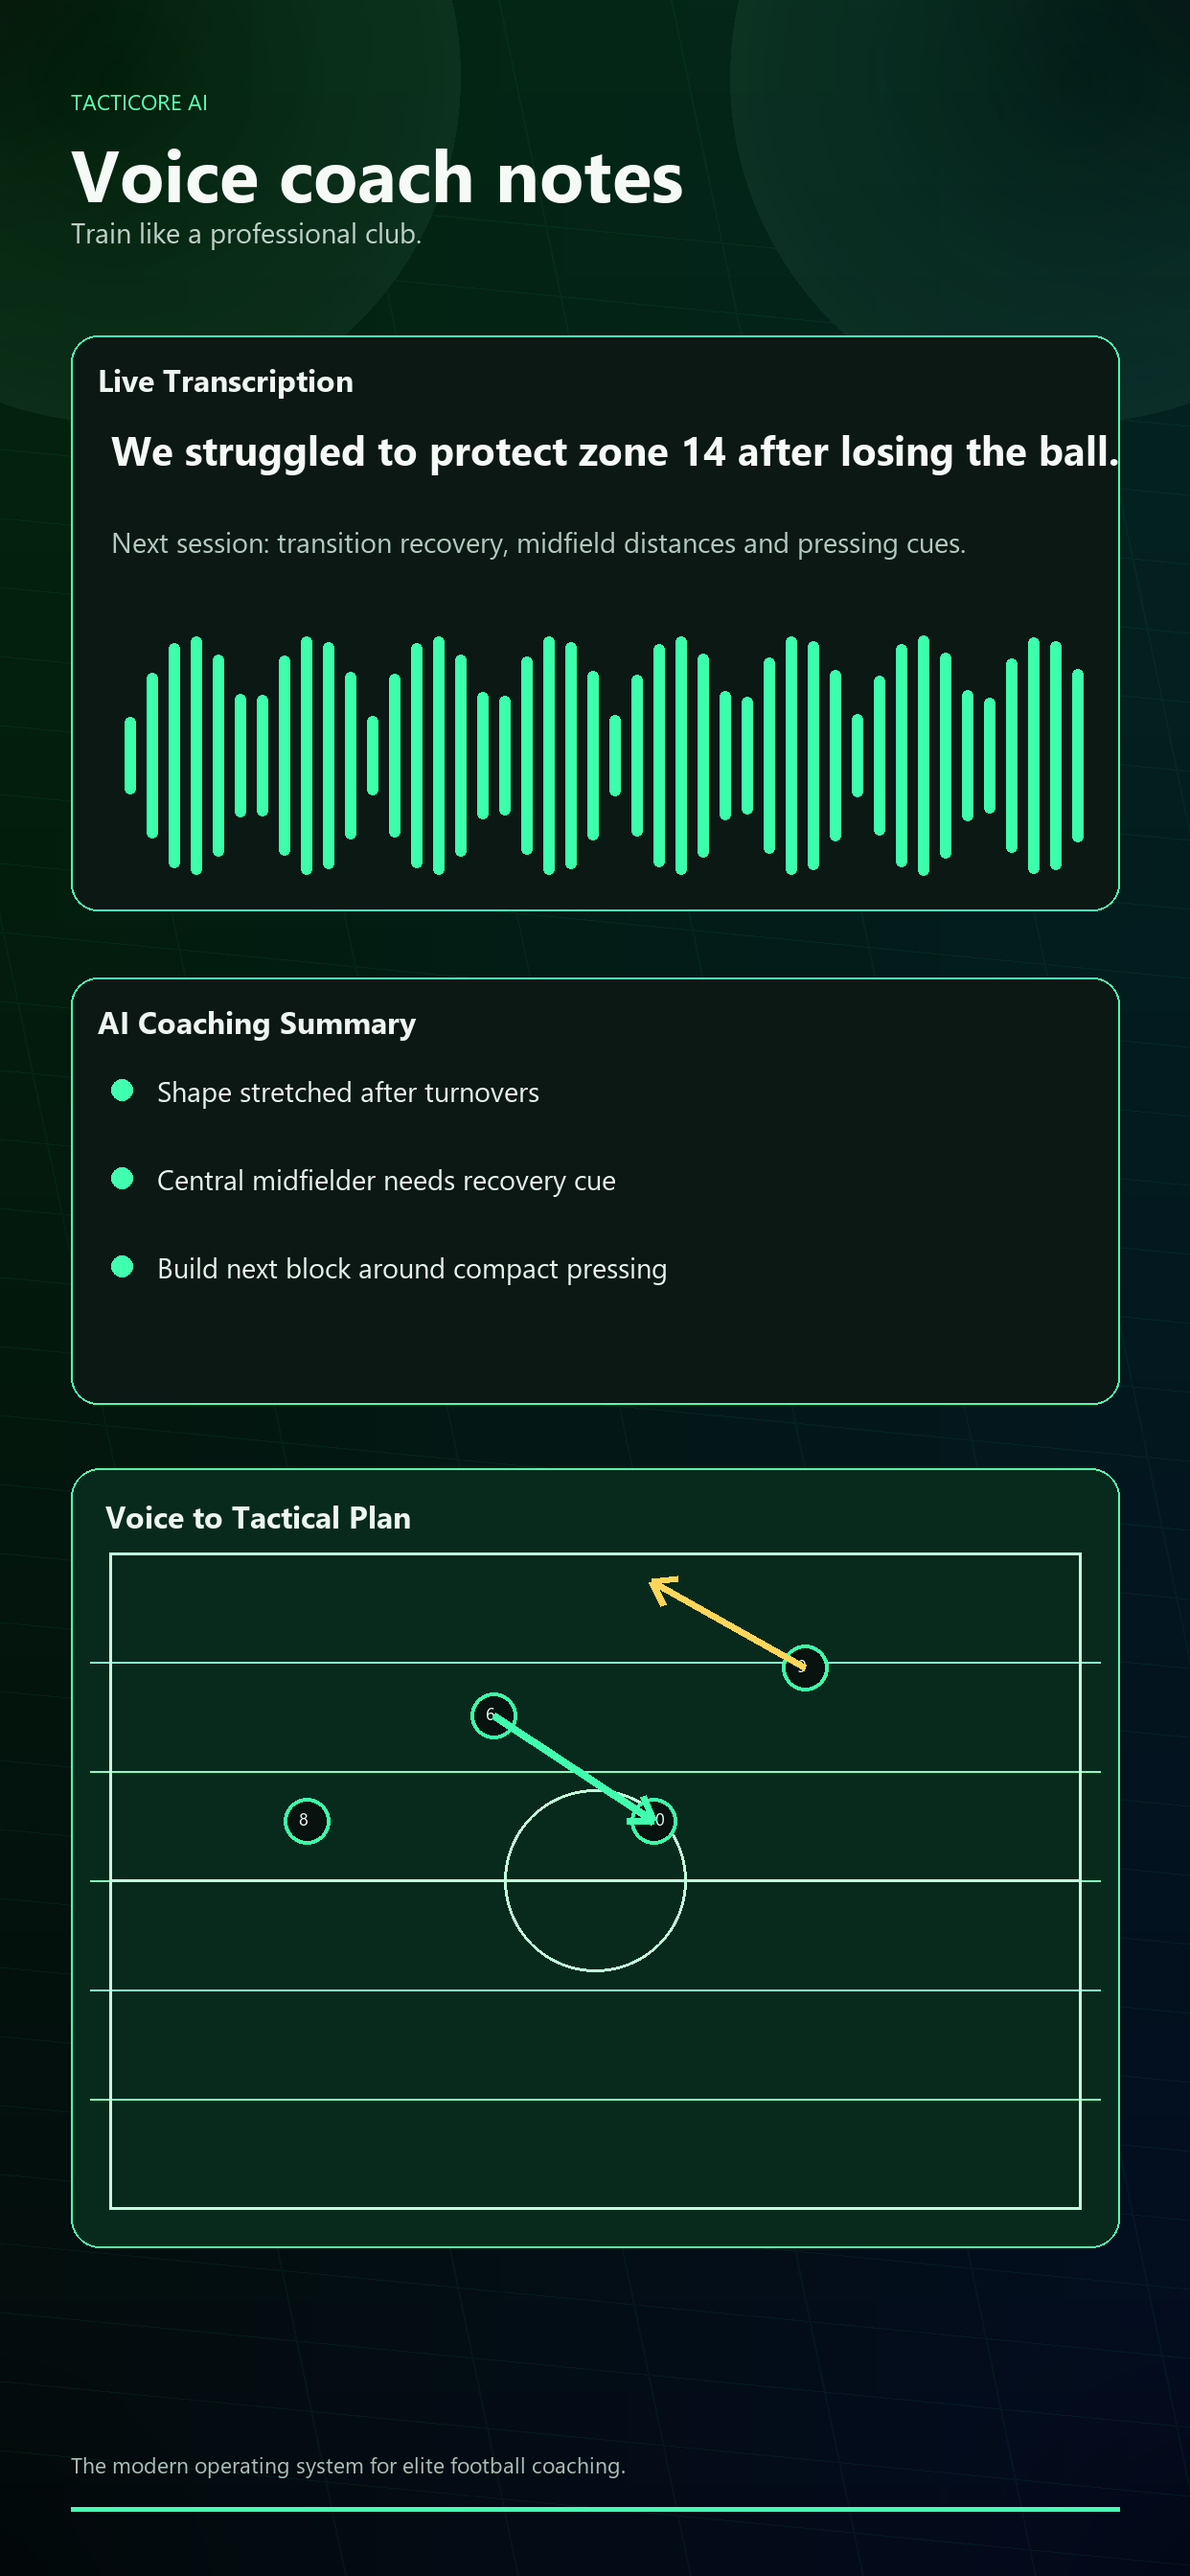
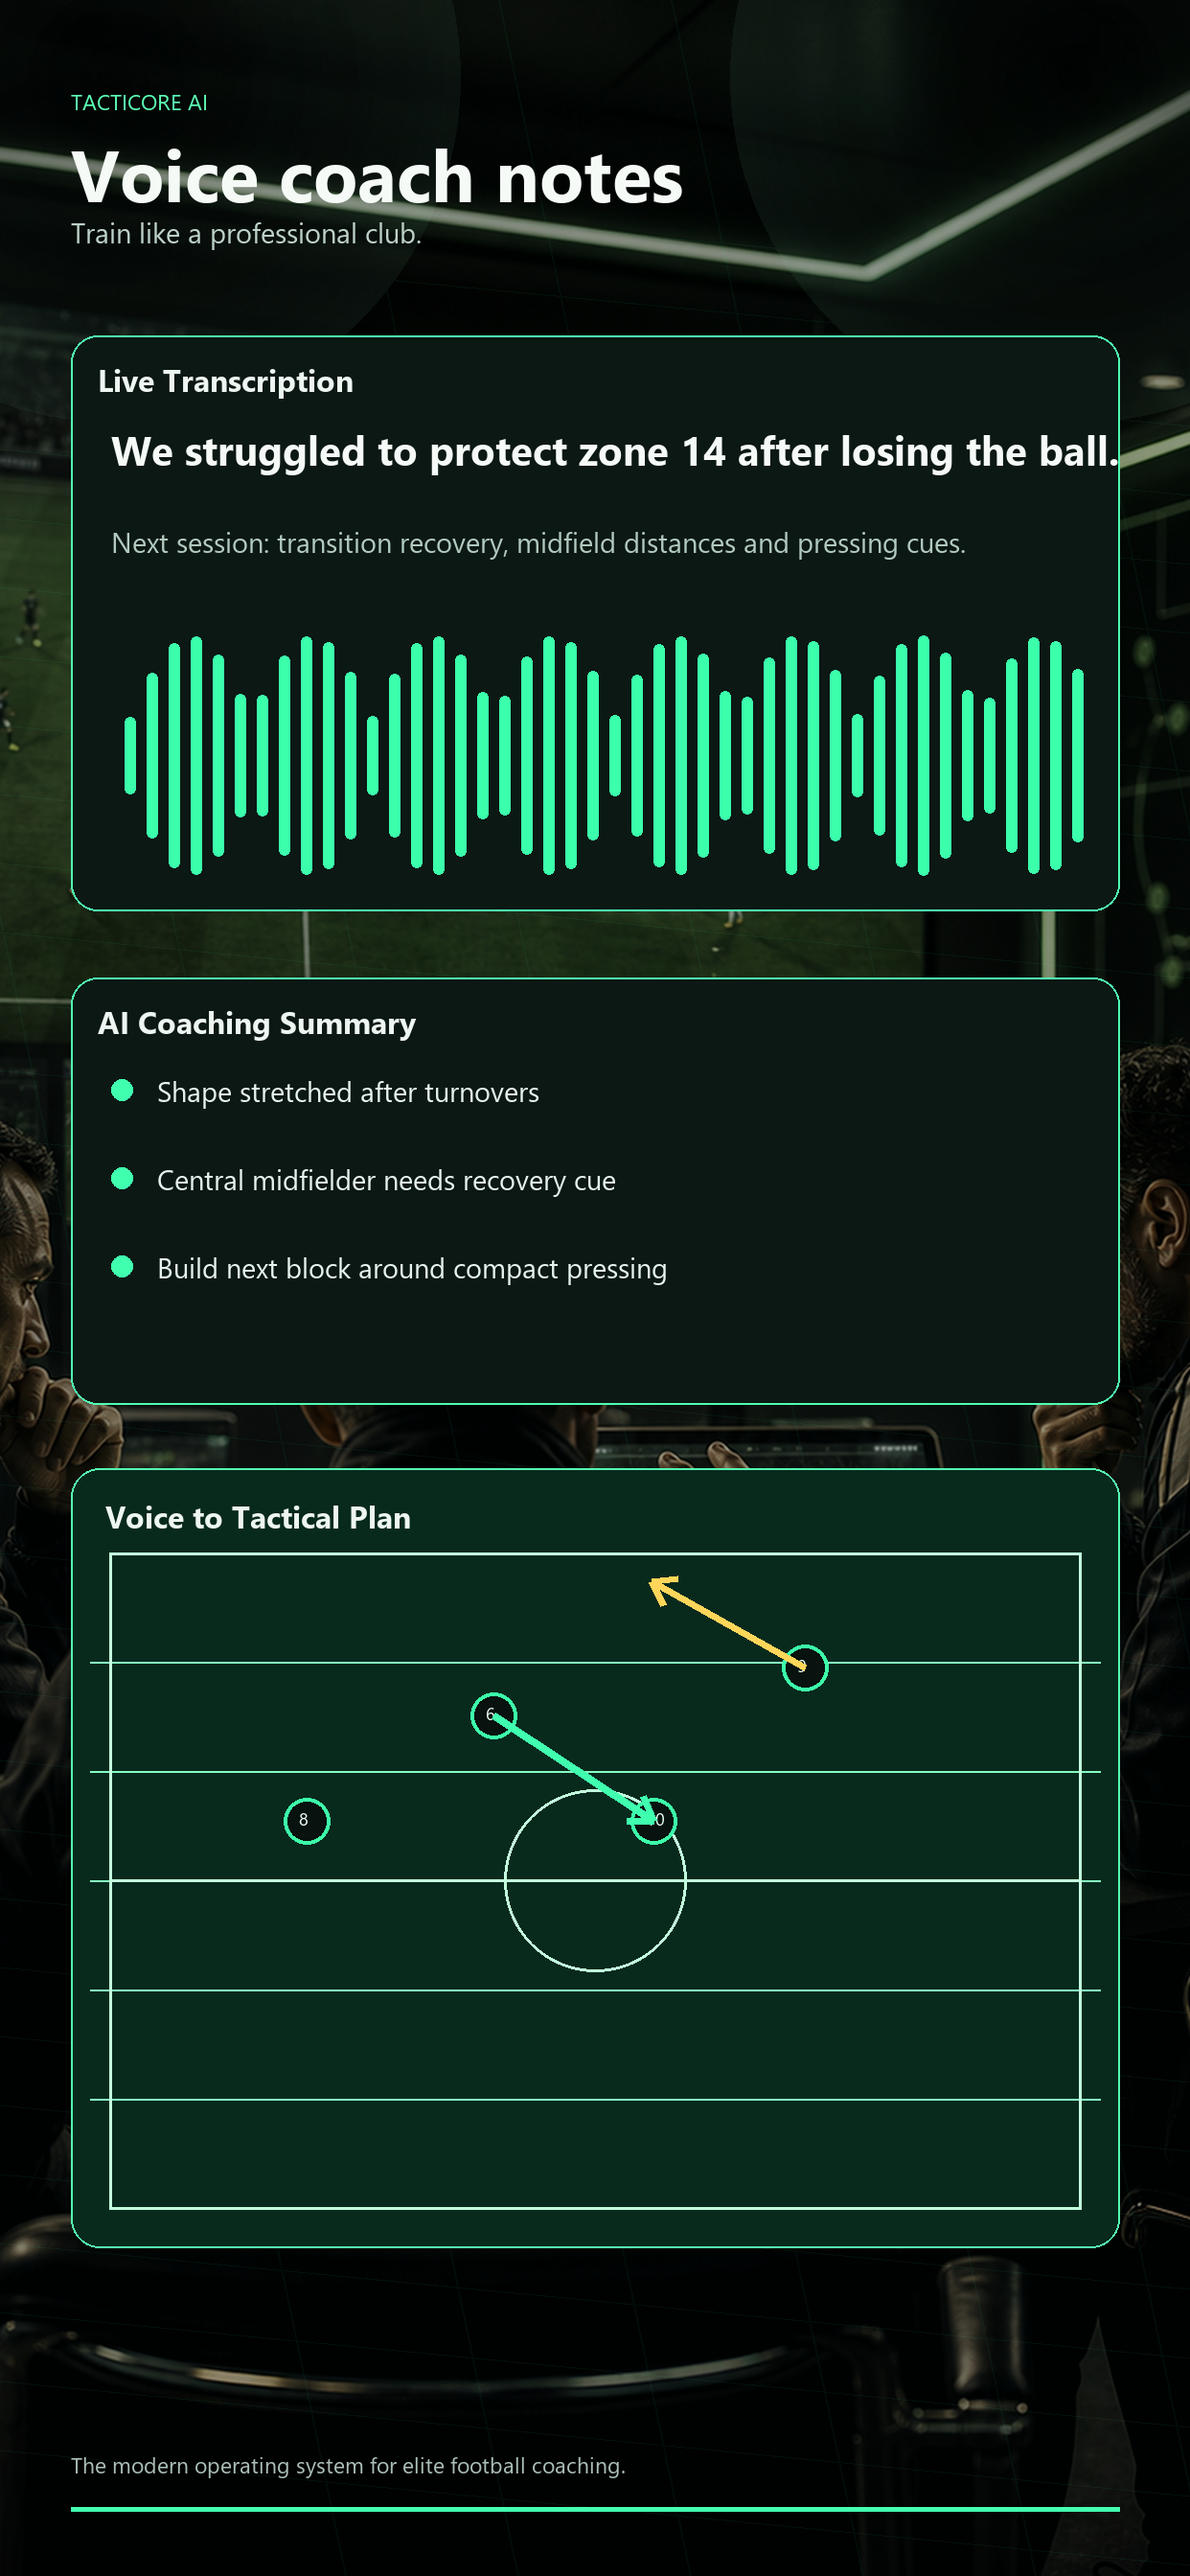
Add premium human football assets

diff --git a/TactiCoreAI/HumanAssetsPlaceholder/HumanAssetCatalog.swift b/TactiCoreAI/HumanAssetsPlaceholder/HumanAssetCatalog.swift
@@ -15,42 +15,63 @@ enum HumanAssetKind: String, CaseIterable, Identifiable {
     var title: String {
         switch self {
         case .eliteCoach:
-            return "Elite Coach Placeholder"
+            return "Touchline leadership"
         case .trainingGround:
-            return "Training Ground Photography Placeholder"
+            return "Floodlit training ground"
         case .footballerAction:
-            return "Explosive Footballer Action Placeholder"
+            return "Explosive player action"
         case .tacticalDuel:
-            return "Tactical Duel Scene Placeholder"
+            return "Pressing duel"
         case .playerSilhouette:
-            return "Premium Player Silhouette Placeholder"
+            return "Player development focus"
         case .stadiumTunnel:
-            return "Stadium Tunnel Atmosphere Placeholder"
+            return "Elite matchday atmosphere"
         case .recoveryCircle:
-            return "Human Recovery Circle Placeholder"
+            return "Team reflection"
         case .matchAnalysis:
-            return "Analyst Reviewing Match Placeholder"
+            return "Analysis room"
         }
     }
 
     var subtitle: String {
         switch self {
         case .eliteCoach:
-            return "Coach profile, sideline emotion, leadership"
+            return "Coach, assistant official, and tactical control"
         case .trainingGround:
-            return "Floodlit pitch, cones, players in motion"
+            return "Players, staff, cones, tablets, and session detail"
         case .footballerAction:
-            return "Sprint, press, first touch, contact"
+            return "Sprint, press, first touch, and decision speed"
         case .tacticalDuel:
-            return "1v1 pressure moment with tactical overlay"
+            return "1v1 pressure moment with tactical movement"
         case .playerSilhouette:
-            return "Anonymous player identity for squads"
+            return "Anonymous footballer imagery for squads"
         case .stadiumTunnel:
-            return "Pre-session cinematic focus"
+            return "Footballer and coach under stadium floodlights"
         case .recoveryCircle:
-            return "Team reflection and recovery"
+            return "Coach-led review, recovery, and planning"
         case .matchAnalysis:
-            return "Video-room analysis and decision making"
+            return "Analysts and officials reviewing match patterns"
+        }
+    }
+
+    var imageName: String {
+        switch self {
+        case .eliteCoach:
+            return "premium_training_officials"
+        case .trainingGround:
+            return "premium_training_officials"
+        case .footballerAction:
+            return "premium_tactical_duel"
+        case .tacticalDuel:
+            return "premium_tactical_duel"
+        case .playerSilhouette:
+            return "premium_tactical_duel"
+        case .stadiumTunnel:
+            return "premium_icon_scene"
+        case .recoveryCircle:
+            return "premium_training_officials"
+        case .matchAnalysis:
+            return "premium_analysis_room"
         }
     }
 

diff --git a/TactiCoreAI/Components/CoreComponents.swift b/TactiCoreAI/Components/CoreComponents.swift
@@ -7,25 +7,22 @@ struct HumanAssetView: View {
 
     var body: some View {
         ZStack(alignment: .bottomLeading) {
-            RoundedRectangle(cornerRadius: 8, style: .continuous)
-                .fill(
-                    LinearGradient(
-                        colors: [.black, .tactiCoreGreen.opacity(0.62), kind.accent.opacity(0.32)],
-                        startPoint: .topLeading,
-                        endPoint: .bottomTrailing
-                    )
-                )
-                .overlay(StadiumLightRays(accent: kind.accent).opacity(0.85))
-                .overlay(PitchHorizon(accent: kind.accent).opacity(0.70))
-                .overlay(HumanSilhouetteGroup(kind: kind).padding(.horizontal, 18).padding(.bottom, 18))
+            Image(kind.imageName)
+                .resizable()
+                .scaledToFill()
+                .saturation(0.96)
+                .contrast(1.08)
+                .brightness(-0.03)
                 .overlay(
                     RoundedRectangle(cornerRadius: 8, style: .continuous)
                         .stroke(kind.accent.opacity(0.28), lineWidth: 1)
                 )
                 .overlay(
-                    LinearGradient(colors: [.clear, .black.opacity(0.82)], startPoint: .center, endPoint: .bottom)
+                    LinearGradient(colors: [.black.opacity(0.10), .black.opacity(0.20), .black.opacity(0.88)], startPoint: .top, endPoint: .bottom)
                         .clipShape(RoundedRectangle(cornerRadius: 8, style: .continuous))
                 )
+                .overlay(StadiumLightRays(accent: kind.accent).opacity(0.36))
+                .accessibilityHidden(true)
 
             VStack(alignment: .leading, spacing: 4) {
                 Text(kind.title)

diff --git a/TactiCoreAI/Components/BrandSystem.swift b/TactiCoreAI/Components/BrandSystem.swift
@@ -43,6 +43,29 @@ struct CinematicBackground: View {
         ZStack {
             TactiCoreGradient.stadium.ignoresSafeArea()
 
+            Image(assetKind.imageName)
+                .resizable()
+                .scaledToFill()
+                .ignoresSafeArea()
+                .saturation(0.92)
+                .contrast(1.10)
+                .brightness(-0.10)
+                .overlay(
+                    LinearGradient(
+                        colors: [.black.opacity(0.18), .black.opacity(0.74), .black.opacity(0.92)],
+                        startPoint: .top,
+                        endPoint: .bottom
+                    )
+                )
+                .overlay(
+                    LinearGradient(
+                        colors: [.black.opacity(0.78), .clear, .black.opacity(0.72)],
+                        startPoint: .leading,
+                        endPoint: .trailing
+                    )
+                )
+                .accessibilityHidden(true)
+
             RadialGradient(
                 colors: [assetKind.accent.opacity(0.30), .clear],
                 center: .topTrailing,

diff --git a/AppStoreConnect/generate_screenshot_assets.py b/AppStoreConnect/generate_screenshot_assets.py
@@ -1,5 +1,5 @@
 from pathlib import Path
-from PIL import Image, ImageDraw, ImageFont, ImageFilter
+from PIL import Image, ImageDraw, ImageFont, ImageFilter, ImageEnhance
 import math
 
 
@@ -38,14 +38,32 @@ def rounded(draw, box, radius, fill, outline=None, width=1):
     draw.rounded_rectangle(box, radius=radius, fill=fill, outline=outline, width=width)
 
 
-def background():
+def background(asset_name="premium_training_officials"):
+    source_map = {
+        "premium_training_officials": ROOT.parent / "TactiCoreAI" / "Resources" / "Assets.xcassets" / "premium_training_officials.imageset" / "premium_training_officials.png",
+        "premium_tactical_duel": ROOT.parent / "TactiCoreAI" / "Resources" / "Assets.xcassets" / "premium_tactical_duel.imageset" / "premium_tactical_duel.png",
+        "premium_analysis_room": ROOT.parent / "TactiCoreAI" / "Resources" / "Assets.xcassets" / "premium_analysis_room.imageset" / "premium_analysis_room.png",
+        "premium_icon_scene": ROOT.parent / "TactiCoreAI" / "Resources" / "Assets.xcassets" / "premium_icon_scene.imageset" / "premium_icon_scene.png",
+    }
     img = Image.new("RGB", (W, H), "#06110d")
-    px = img.load()
-    for y in range(H):
-        for x in range(W):
-            g = int(11 + 28 * (1 - y / H))
-            b = int(13 + 19 * (x / W))
-            px[x, y] = (3, g, b)
+    source = source_map.get(asset_name)
+    if source and source.exists():
+        photo = Image.open(source).convert("RGB")
+        scale = max(W / photo.width, H / photo.height)
+        resized = photo.resize((round(photo.width * scale), round(photo.height * scale)), Image.Resampling.LANCZOS)
+        left = (resized.width - W) // 2
+        top = (resized.height - H) // 2
+        img = resized.crop((left, top, left + W, top + H))
+        img = ImageEnhance.Color(img).enhance(0.86)
+        img = ImageEnhance.Contrast(img).enhance(1.08)
+        img = Image.blend(img, Image.new("RGB", (W, H), "#020604"), 0.36)
+    else:
+        px = img.load()
+        for y in range(H):
+            for x in range(W):
+                g = int(11 + 28 * (1 - y / H))
+                b = int(13 + 19 * (x / W))
+                px[x, y] = (3, g, b)
 
     overlay = Image.new("RGBA", (W, H), (0, 0, 0, 0))
     d = ImageDraw.Draw(overlay)
@@ -135,7 +153,7 @@ def footer(draw, text="The modern operating system for elite football coaching."
 
 
 def screenshot_dashboard():
-    img = background()
+    img = background("premium_training_officials")
     d = ImageDraw.Draw(img)
     header(d, "Elite coaching OS")
     silhouette(d, 1030, 352, 1.25)
@@ -170,7 +188,7 @@ def screenshot_dashboard():
 
 
 def screenshot_generator():
-    img = background()
+    img = background("premium_training_officials")
     d = ImageDraw.Draw(img)
     header(d, "AI session builder")
     card(d, (74, 342, 1168, 742), "Coach Inputs")
@@ -204,7 +222,7 @@ def screenshot_generator():
 
 
 def screenshot_voice():
-    img = background()
+    img = background("premium_analysis_room")
     d = ImageDraw.Draw(img)
     header(d, "Voice coach notes")
     card(d, (74, 350, 1168, 950), "Live Transcription")
@@ -234,7 +252,7 @@ def screenshot_voice():
 
 
 def screenshot_tactical_board():
-    img = background()
+    img = background("premium_tactical_duel")
     d = ImageDraw.Draw(img)
     header(d, "Tactical board")
     pitch(d, (74, 350, 1168, 2098), "4-3-3 Pressing Pattern")
@@ -258,7 +276,7 @@ def screenshot_tactical_board():
 
 
 def screenshot_development():
-    img = background()
+    img = background("premium_tactical_duel")
     d = ImageDraw.Draw(img)
     header(d, "Player development")
     card(d, (74, 348, 1168, 795), "Development Alerts")
@@ -289,7 +307,7 @@ def screenshot_development():
 
 
 def screenshot_paywall(selected="pro-monthly"):
-    img = background()
+    img = background("premium_icon_scene")
     d = ImageDraw.Draw(img)
     header(d, "Pro coaching power")
     d.text((74, 310), "Unlock voice planning, tactical boards, animated drills and premium exports.", fill=(190, 211, 202), font=F["body"])
